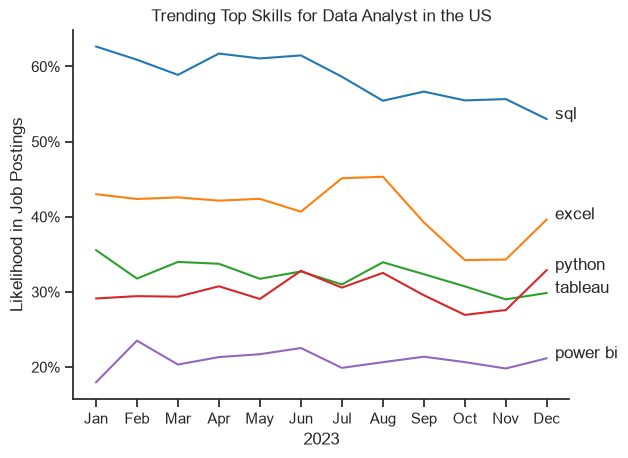
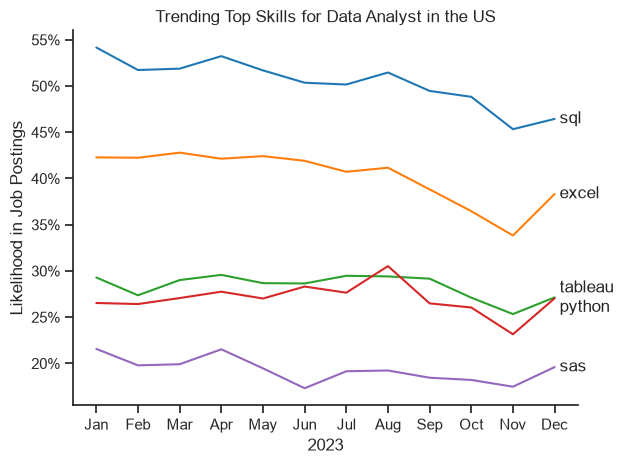
Add color labels based on technology for optimal skills

diff --git a/README.md b/README.md
@@ -7,7 +7,15 @@ The project is structured into two main parts:
 * [`project_sql/`](./project_sql/) — Contains core SQL queries focusing on top-paying roles, skill demands, and optimal learning paths.
 * [`project_python/`](./project_python/) — Contains Python scripts, exploratory data analysis, and ongoing analytical tasks.
 
----
+## Dataset & Setup
+
+- **Source Dataset:** Job postings data compiled by Luke Barousse (2023), covering global data roles.
+
+- **Environment Setup:** 
+  ```bash
+  conda create -n data_jobs python=3.11
+  conda activate data_jobs
+  pip install pandas numpy matplotlib seaborn datasets ast adjustText
 
 ## Questions I Wanted to Answer
 * What are the top-paying Data Analyst jobs?
@@ -18,16 +26,14 @@ The project is structured into two main parts:
 * **[Python]** What does the overall job market structure look like (top countries, companies, benefits)?
 * **[Python]** How does skill demand compare across Data Analyst, Data Engineer, and Data Scientist roles?
 * **[Python]** How is demand for the top Data Analyst skills trending over the year?
-
----
+* **[Python]** How well do Data Analyst roles pay compared to other data roles?
+* **[Python]** Which skills are both in demand and well paid for Data Analysts, and which technology categories do they belong to?
 
 ## Tools I Used
 * **SQL & PostgreSQL** — for complex querying, multi-table joins, and database management.
 * **Python, Pandas & NumPy** — for data cleaning, manipulation, and exploratory data analysis.
 * **Matplotlib & Seaborn** — for generating clean visual insights and data distributions.
 * **VS Code & Git/GitHub** — for development, version control, and portfolio sharing.
-
----
 
 ## Project Structure & Workflow
 
@@ -39,7 +45,11 @@ The project is structured into two main parts:
 * **Most Optimal Skills to Learn** (Query 5)
 
 ### Part 2: Python Analysis & Additional Tasks ([`project_python/`](./project_python/))
-* **Exploratory Data Analysis (EDA)** (`1_EDA_intro.ipynb`) — Initial data inspection, country/company distributions, and benefit offerings.
+* **Exploratory Data Analysis (EDA)** (`1_EDA_intro.ipynb`)
+* **Skill Demand by Role** (`2_Skill_Demand.ipynb`)
+* **Skill Trends Over Time** (`3_Skills_Trend.ipynb`)
+* **Salary Analysis** (`4_Salary_Analysis.ipynb`)
+* **Most Optimal Skills** (`5_Optimal_Skills.ipynb`)
 
 ## The Analysis
 
@@ -116,7 +126,7 @@ Using a `CASE` statement, I bucketed Data Analyst salaries into Entry, Mid, and 
 </details>
 
 <details>
-<summary><b>Click to expand Python EDA & Visual Insights</b></summary>
+<summary><b>Click to expand Python Analysis & Visualizations</b></summary>
 
 ### Exploratory Data Analysis (EDA)
 
@@ -138,7 +148,7 @@ See notebook here: [1_EDA_intro.ipynb](./project_python/1_EDA_intro.ipynb)
 
 ![Number of Jobs per Country](./project_python/images/jobs_per_country.png)
 
-> **Key insight:**  The United States dominates the data job market with over 200,000 postings—more than four times the volume of the next highest country, India—while European and global tech hubs like the UK, France, and Germany follow closely behind, highlighting a heavily US-centric distribution in global data opportunities.
+> **Key insight:**  The United States dominates with over 200,000 postings, followed by tech hubs like India, UK, France, and Germany.
 
 ---
 
@@ -181,9 +191,9 @@ See notebook here: [`3_Skils_Trend.ipynb`](./project_python/3_Skills_Trend.ipynb
 ![Trending Top Skills for Data Analyst in the US](./project_python/images/trending_top_skills.png)
 
 > **Key insight:** 
-> * **SQL Leadership:** **SQL** remains the undisputed leader, consistently holding over 50% market demand all year — starting strong at ~63% in January and closing at ~53% in December.
-> * **Excel Fluctuations:** **Excel** maintains second place, generally hovering between 40% and 45%, though it dips to a low of ~34% in October and November before recovering to ~40% in December.
-> * **Core Toolset Stability:** **Python**, **Tableau**, and **Power BI** form a steady secondary tier, with Python and Tableau intersecting around 32-33% in June, while Power BI maintains a consistent baseline around 20% throughout the year.
+> * **SQL Leadership:** **SQL** remains the undisputed leader all year, holding steady between 45% and 54% market demand, aligning with the aggregate average.
+> * **Excel Fluctuations:** **Excel** maintains second place, hovering between 34% and 43%, showing a slight drop in late autumn before recovering in December.
+> * **Core Toolset Stability:** **Python**, **Tableau**, and **Power BI** track closely together in the 25%–30% range, while SAS holds a stable baseline around 18%–21%.
 
 ### Salary Distributions Across Core Data Roles (US)
 
@@ -198,6 +208,29 @@ See notebook here: [`4_Salary_Analysis.ipynb`](./project_python/4_Salary_Analysi
 > * **Specialization vs. Experience:** Mid-level Data Scientists and Data Engineers sit comfortably above Data Analysts, while **Data Analysts** represent a more accessible entry-to-mid tier with a median salary closer to $100K.
 > * **Wide Outlier Spreads:** Across almost all roles, numerous outliers extend far beyond the upper whiskers (reaching up to $600K for Data Scientists), reflecting high-paying specialized or executive-level positions within the US job market.
 
+### Most Optimal Skills for Data Analysts in the US
+
+To find the skills worth learning first, I combined demand (the percentage of postings requesting a skill) with median salary. I kept only skills appearing in more than 5% of postings so the chart stays readable, and color-coded each skill by its technology category (programming, analyst tools, cloud, databases) to look for patterns beyond individual skills.
+
+See notebook here: [`5_Optimal_Skills.ipynb`](./project_python/5_Optimal_Skills.ipynb)
+
+First, I mapped out the direct relationship between market demand and compensation:
+
+![Most Optimal Skills for Data Analysts in the US](./project_python/images/optimal_skills.png)
+
+To gain deeper context, I then grouped each skill into technology categories (`programming`, `analyst_tools`, `databases`, and `cloud`), adding color-coded groupings to distinguish tool types:
+
+![Most Optimal Skills with Technology Categories](./project_python/images/optimal_skills_with_technology.png)
+
+```python
+df_plot = df_DA_skills_high_demand.merge(df_technology, left_on='job_skills', right_on='skills')
+sns.scatterplot(data=df_plot, x='skill_percent', y='median_salary', hue='technology')
+```
+
+> **Key insight:**
+> * **Programming:** **Python** and **R** combine high salaries with solid demand, making them strong strategic additions to core SQL skills.
+> * **Analyst tools:** **Excel**, **Tableau**, and **Power BI** offer high market volume and demand security, serving as baseline operational tools.
+> * **Cloud and databases:** Specialized database and cloud infrastructure tools lean higher on median compensation, offering strong growth potential.
 </details>
 
 ## What I Learned
@@ -209,14 +242,23 @@ Throughout this project, I strengthened my SQL skills in several key areas:
 - **Aggregation:** Using `GROUP BY`, `COUNT()`, and `AVG()` to summarize data — for example, counting how many postings require each skill, and calculating average salaries per skill.
 - **Query alternatives:** Learning that the same analytical question can often be solved multiple ways (e.g. CTEs vs. a single query with `HAVING`), and that the right choice depends on readability and reusability, not just correctness.
 - **Filtering out noise:** Recognizing that raw rankings (like "top-paying skills") can be misleading due to small sample sizes, and using thresholds (`demand_count > 10`) to surface more reliable insights.
-- **Data analysis with Python:** Using Pandas for inspecting datasets, cleaning dataframes, and leveraging Seaborn/Matplotlib to build distribution plots and uncover hidden market insights.
+- **Python data cleaning:** Converting string-encoded dates and lists into real datetime and list objects (`pd.to_datetime`, `ast.literal_eval`).
+- **Reshaping data:** Using `.explode()`, `.pivot_table()` and `.merge()` to turn nested skill lists into countable rows and join them with a technology lookup.
+- **Normalizing metrics:** Switching from raw counts to percentages, so comparisons stay fair across months and roles with different posting volumes.
+- **Visualization:** Building box plots, line charts and color-coded scatter plots with Seaborn and Matplotlib, including custom axis formatting.
 
 ## Conclusions
 
-This analysis revealed that the "best" skill to learn depends entirely on what you're optimizing for:
+This project combined SQL querying and Python data analysis to provide a comprehensive view of the Data Analyst job market. The findings reveal that the "best" skills and strategic career choices depend on what you are optimizing for:
 
-- **In-demand skills** (SQL, Excel, Python, Tableau, Power BI) are the safest bet — they appear across the widest range of job postings.
-- **Top-paying skills** (PySpark, Bitbucket, Couchbase) pay the most on average, but are tied to a small, niche subset of highly specialized roles.
-- **Most optimal skills** (Go, Confluence, Hadoop, Snowflake, Azure) strike a balance — well-paid *and* requested often enough to be a realistic, strategic learning target.
+1. **Foundational vs. High-Earning Skills:**
+   - **In-Demand Core (High Volume):** **SQL** and **Excel** remain non-negotiable baseline requirements, appearing in over 50% and 40% of postings respectively throughout the entire year. **Python** and **Tableau** form the essential secondary toolkit.
+   - **Top-Paying Niche (High Salary):** Tools like **PySpark**, **Bitbucket**, and **Couchbase** offer the highest average compensation, but represent a tiny fraction of total job openings.
+   - **Most Optimal Strategic Skills:** Skills such as **Snowflake**, **Azure**, **AWS**, and **Go** balance strong market demand with significantly higher median salaries, offering the best return on learning investment.
 
-For someone starting out, the in-demand skills remain the essential foundation. But for someone looking to stand out and increase earning potential, the "most optimal" list points toward cloud and data engineering adjacent tools as a strong next step beyond the basics.
+2. **Role & Salary Hierarchy (Python Insights):**
+   - **Career Progression:** Senior Data Science and Engineering roles command top market rates (~$140K–$150K median), whereas **Data Analyst** roles serve as an accessible entry-to-mid career path with a median salary near ~$100K.
+   - **Specialization Advantage:** Blending core analyst tools with cloud technology and programming (Python/R) positions analysts in the upper salary quartiles.
+
+3. **Methodological Note on Scope:**
+   - SQL queries focused on remote (`Anywhere`) postings, while Python analyses evaluated broader US-wide datasets (filtered strictly by `job_title_short == 'Data Analyst'`). This methodological distinction demonstrates how sampling criteria influence specific skill rankings, reinforcing the importance of context in data-driven decision-making.
